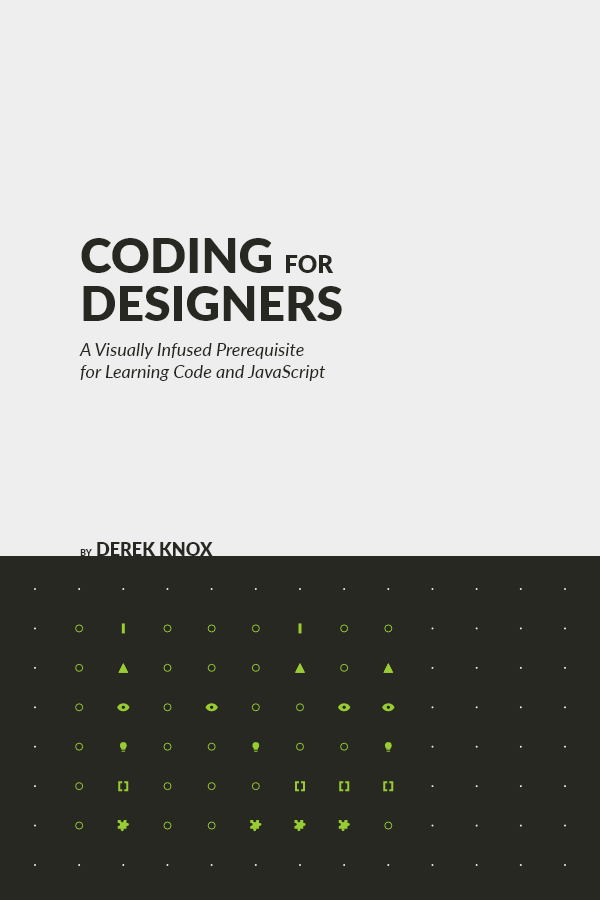
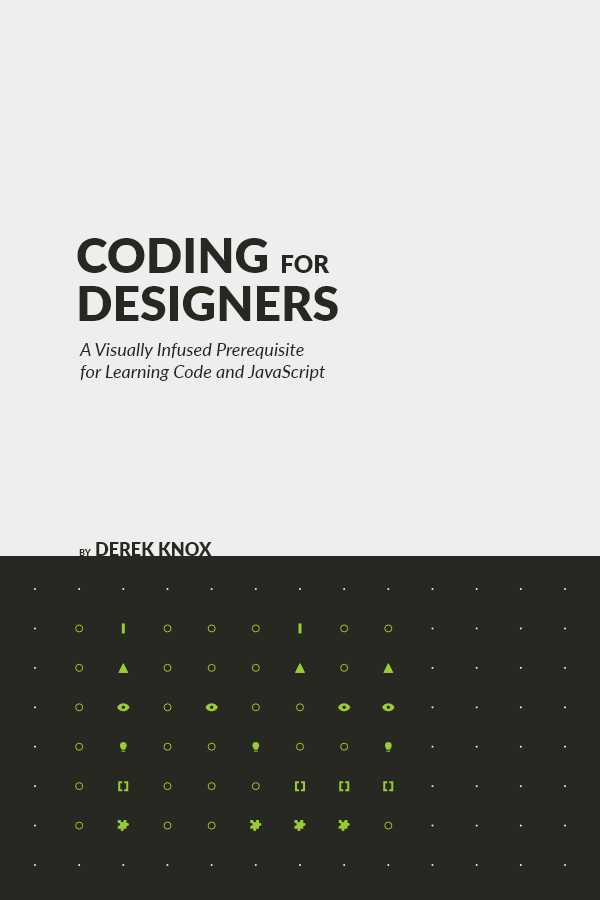
updated cover and readme and build num

Changed region(s): [[0.12, 0.2489, 0.57, 0.3733], [0.12, 0.5911, 0.36, 0.6222]]

diff --git a/site/interactive-code/index.html b/site/interactive-code/index.html
@@ -21,7 +21,7 @@
     <link href="https://fonts.googleapis.com/css?family=Lato:400,900" rel="stylesheet">
     <link rel="shortcut icon" href="../assets/img/favicon.png" type="image/x-icon">
     <link rel="icon" href="../assets/img/favicon.png" type="image/x-icon">
-    <link rel="stylesheet" type="text/css" href="../assets/css/book-style.css?1.0.39">
+    <link rel="stylesheet" type="text/css" href="../assets/css/book-style.css?1.0.40">
     <link rel="stylesheet" href="../assets/css/prism.css">
   </head>
   <body>
@@ -781,7 +781,7 @@ imageToToggle<span class="token punctuation">.</span>style<span class="token pun
     <!-- Reveal Animation -->
     <div id='reveal-overlay'></div>
 
-    <script src="../assets/js/book.js?1.0.39"></script>
+    <script src="../assets/js/book.js?1.0.40"></script>
     <script src="../assets/js/prism.js"></script>
     <script async defer src="https://buttons.github.io/buttons.js"></script>
 

diff --git a/site/80-20-javascript/index.html b/site/80-20-javascript/index.html
@@ -21,7 +21,7 @@
     <link href="https://fonts.googleapis.com/css?family=Lato:400,900" rel="stylesheet">
     <link rel="shortcut icon" href="../assets/img/favicon.png" type="image/x-icon">
     <link rel="icon" href="../assets/img/favicon.png" type="image/x-icon">
-    <link rel="stylesheet" type="text/css" href="../assets/css/book-style.css?1.0.39">
+    <link rel="stylesheet" type="text/css" href="../assets/css/book-style.css?1.0.40">
     <link rel="stylesheet" href="../assets/css/prism.css">
   </head>
   <body>
@@ -164,7 +164,7 @@
     <!-- Reveal Animation -->
     <div id='reveal-overlay'></div>
 
-    <script src="../assets/js/book.js?1.0.39"></script>
+    <script src="../assets/js/book.js?1.0.40"></script>
     <script src="../assets/js/prism.js"></script>
     <script async defer src="https://buttons.github.io/buttons.js"></script>
 

diff --git a/site/breaking-barriers/index.html b/site/breaking-barriers/index.html
@@ -21,7 +21,7 @@
     <link href="https://fonts.googleapis.com/css?family=Lato:400,900" rel="stylesheet">
     <link rel="shortcut icon" href="../assets/img/favicon.png" type="image/x-icon">
     <link rel="icon" href="../assets/img/favicon.png" type="image/x-icon">
-    <link rel="stylesheet" type="text/css" href="../assets/css/book-style.css?1.0.39">
+    <link rel="stylesheet" type="text/css" href="../assets/css/book-style.css?1.0.40">
     <link rel="stylesheet" href="../assets/css/prism.css">
   </head>
   <body>
@@ -532,7 +532,7 @@
     <!-- Reveal Animation -->
     <div id='reveal-overlay'></div>
 
-    <script src="../assets/js/book.js?1.0.39"></script>
+    <script src="../assets/js/book.js?1.0.40"></script>
     <script src="../assets/js/prism.js"></script>
     <script async defer src="https://buttons.github.io/buttons.js"></script>
 

diff --git a/site/deconstructing-designs/index.html b/site/deconstructing-designs/index.html
@@ -21,7 +21,7 @@
     <link href="https://fonts.googleapis.com/css?family=Lato:400,900" rel="stylesheet">
     <link rel="shortcut icon" href="../assets/img/favicon.png" type="image/x-icon">
     <link rel="icon" href="../assets/img/favicon.png" type="image/x-icon">
-    <link rel="stylesheet" type="text/css" href="../assets/css/book-style.css?1.0.39">
+    <link rel="stylesheet" type="text/css" href="../assets/css/book-style.css?1.0.40">
     <link rel="stylesheet" href="../assets/css/prism.css">
   </head>
   <body>
@@ -164,7 +164,7 @@
     <!-- Reveal Animation -->
     <div id='reveal-overlay'></div>
 
-    <script src="../assets/js/book.js?1.0.39"></script>
+    <script src="../assets/js/book.js?1.0.40"></script>
     <script src="../assets/js/prism.js"></script>
     <script async defer src="https://buttons.github.io/buttons.js"></script>
 

diff --git a/site/preface/index.html b/site/preface/index.html
@@ -21,7 +21,7 @@
     <link href="https://fonts.googleapis.com/css?family=Lato:400,900" rel="stylesheet">
     <link rel="shortcut icon" href="../assets/img/favicon.png" type="image/x-icon">
     <link rel="icon" href="../assets/img/favicon.png" type="image/x-icon">
-    <link rel="stylesheet" type="text/css" href="../assets/css/book-style.css?1.0.39">
+    <link rel="stylesheet" type="text/css" href="../assets/css/book-style.css?1.0.40">
     <link rel="stylesheet" href="../assets/css/prism.css">
   </head>
   <body>
@@ -175,7 +175,7 @@
     <!-- Reveal Animation -->
     <div id='reveal-overlay'></div>
 
-    <script src="../assets/js/book.js?1.0.39"></script>
+    <script src="../assets/js/book.js?1.0.40"></script>
     <script src="../assets/js/prism.js"></script>
     <script async defer src="https://buttons.github.io/buttons.js"></script>
 

diff --git a/site/programming-and-visual-design/index.html b/site/programming-and-visual-design/index.html
@@ -21,7 +21,7 @@
     <link href="https://fonts.googleapis.com/css?family=Lato:400,900" rel="stylesheet">
     <link rel="shortcut icon" href="../assets/img/favicon.png" type="image/x-icon">
     <link rel="icon" href="../assets/img/favicon.png" type="image/x-icon">
-    <link rel="stylesheet" type="text/css" href="../assets/css/book-style.css?1.0.39">
+    <link rel="stylesheet" type="text/css" href="../assets/css/book-style.css?1.0.40">
     <link rel="stylesheet" href="../assets/css/prism.css">
   </head>
   <body>
@@ -329,7 +329,7 @@
     <!-- Reveal Animation -->
     <div id='reveal-overlay'></div>
 
-    <script src="../assets/js/book.js?1.0.39"></script>
+    <script src="../assets/js/book.js?1.0.40"></script>
     <script src="../assets/js/prism.js"></script>
     <script async defer src="https://buttons.github.io/buttons.js"></script>
 

diff --git a/site/structure-style-and-behavior/index.html b/site/structure-style-and-behavior/index.html
@@ -21,7 +21,7 @@
     <link href="https://fonts.googleapis.com/css?family=Lato:400,900" rel="stylesheet">
     <link rel="shortcut icon" href="../assets/img/favicon.png" type="image/x-icon">
     <link rel="icon" href="../assets/img/favicon.png" type="image/x-icon">
-    <link rel="stylesheet" type="text/css" href="../assets/css/book-style.css?1.0.39">
+    <link rel="stylesheet" type="text/css" href="../assets/css/book-style.css?1.0.40">
     <link rel="stylesheet" href="../assets/css/prism.css">
   </head>
   <body>
@@ -236,7 +236,7 @@
     <!-- Reveal Animation -->
     <div id='reveal-overlay'></div>
 
-    <script src="../assets/js/book.js?1.0.39"></script>
+    <script src="../assets/js/book.js?1.0.40"></script>
     <script src="../assets/js/prism.js"></script>
     <script async defer src="https://buttons.github.io/buttons.js"></script>
 

diff --git a/site/home/index.html b/site/home/index.html
@@ -21,7 +21,7 @@
     <link href="https://fonts.googleapis.com/css?family=Lato:400,900" rel="stylesheet">
     <link rel="shortcut icon" href="../assets/img/favicon.png" type="image/x-icon">
     <link rel="icon" href="../assets/img/favicon.png" type="image/x-icon">
-    <link rel="stylesheet" type="text/css" href="../assets/css/book-style.css?1.0.39">
+    <link rel="stylesheet" type="text/css" href="../assets/css/book-style.css?1.0.40">
   </head>
   <body>
     
@@ -161,7 +161,7 @@
     <!-- Reveal Animation -->
     <div id='reveal-overlay'></div>
 
-    <script src="../assets/js/book.js?1.0.39"></script>
+    <script src="../assets/js/book.js?1.0.40"></script>
     <script async defer src="https://buttons.github.io/buttons.js"></script>
 
     <!-- Global site tag (gtag.js) - Google Analytics -->

diff --git a/index.js b/index.js
@@ -35,7 +35,7 @@ Metalsmith(__dirname)
   .metadata({
     title: "Coding for Designers",
     description: "...",
-    version: '1.0.39'
+    version: '1.0.40'
   })
   .source('./book')
   .destination('./site')

diff --git a/README.md b/README.md
@@ -8,7 +8,7 @@ Coding for Designers is a work-in-progress book that demystifies coding and Java
 - [Give Feedback/Ideas](https://goo.gl/forms/hFoc5wE7x7KCYDwI2)
 - [Derek Knox website](http://www.derekknox.com)
 
-![Coding for Designers](book/assets/img/coding-for-designers-book-cover.png?v0.4 "Coding for Designers")
+![Coding for Designers](book/assets/img/coding-for-designers-book-cover.png?v0.5 "Coding for Designers")
 
 ## Table of Contents
 
